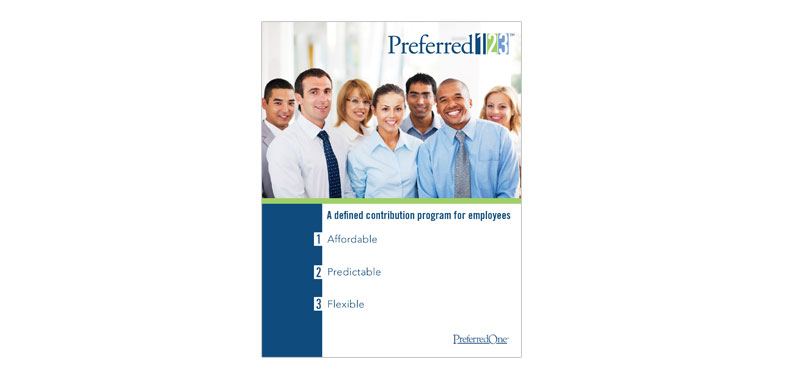
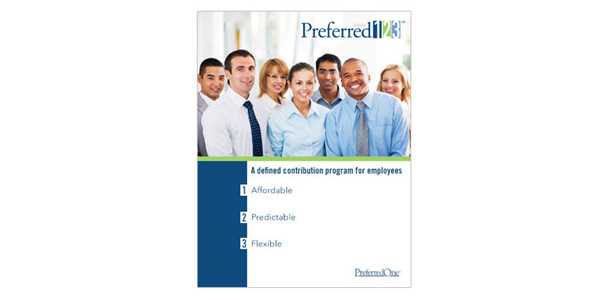
New Layout Applied

Changed region(s): [[0.3, 0.03, 0.69, 0.96]]

diff --git a/design/Fox-Interiors/index.html b/design/Fox-Interiors/index.html
@@ -39,23 +39,31 @@
         <div class="main-container">
             <div class="main wrapper clearfix">
                
-                <section>
-                    
-                    <div id="slide">
-					<img src="../../img/fox1.jpg" id="imgslide" >
-					<div id="left_holder">
-					<img onClick="fox(-1)" class="left" src="../../img/ArrowsLeft.png">
-					</div>
-					<div id="right_holder">
-					<img onClick="fox(1)" class="right" src="../../img/ArrowsRight.png">
-					</div>
-					</div>
-					
-				</section>
-				
+               <article>
+                    <h1>Design</h1>
+                    	<ul class="subnav">
+                    		<li><a href="../DDW">DDW</a></li>
+                    		<li><a href="../Fox-Interiors">Fox-Interiors</a></li>
+                    		<li><a href="../Preferred123">Preferred123</a></li>
+                    		<li><a href="../PreferredOne-Branding">PreferredOne Branding</a></li>
+                    		<li><a href="../Social-Media">Social Media</a></li>
+                    		<li><a href="../Vinyl-Record">Vinyl LP Design</a></li>
+                    	</ul>
+                </article>
+
 				<section>
                     <h1>Fox Interiors</h1>
                     <p>Metro based interior design company’s identity system created in 2009 for their company launch. Classic font logotype paired with a modern chair vector image reflects the company style as well as creates a theme to carry throughout company marketing pieces. This project was created while freelancing at Inizio Creative. Other designed items include a logotype, vector art chair, business card and a promotional postcard.</p>
+                <img src="../../img/fox1.jpg" alt="Fox Interiors Logo">
+                <h3>PHASE ONE | Logos and Patterns</h3>
+                <img src="../../img/fox2.jpg" alt="Fox Logo Comps 1">
+                <h3>PHASE TWO | Vector Chairs</h3>
+                <img src="../../img/fox3.jpg" alt="Fox Vector Chairs">
+                <h3>PHASE THREE | Combining Logos and Chairs</h3>
+                <img src="../../img/fox4.jpg" alt="Logos and Vector Chairs">
+                <h3>FINAL IDENTITY</h3>
+                <img src="../../img/fox5.jpg" alt="Final Identity">
+                
                 </section>
 
             </div> <!-- #main -->

diff --git a/design/DDW/index.html b/design/DDW/index.html
@@ -39,23 +39,31 @@
 
         <div class="main-container">
             <div class="main wrapper clearfix">
-
-                    <section>
-                    
-                    <div id="slide">
-					<img src="../../img/ddw1.jpg" id="imgslide" >
-					<div id="left_holder">
-					<img onClick="ddw(-1)" class="left" src="../../img/ArrowsLeft.png">
-					</div>
-					<div id="right_holder">
-					<img onClick="ddw(1)" class="right" src="../../img/ArrowsRight.png">
-					</div>
-					</div>
-					
+				
+				<article>
+                    <h1>Design</h1>
+                    	<ul class="subnav">
+                    		<li><a href="../DDW">DDW</a></li>
+                    		<li><a href="../Fox-Interiors">Fox-Interiors</a></li>
+                    		<li><a href="../Preferred123">Preferred123</a></li>
+                    		<li><a href="../PreferredOne-Branding">PreferredOne Branding</a></li>
+                    		<li><a href="../Social-Media">Social Media</a></li>
+                    		<li><a href="../Vinyl-Record">Vinyl LP Design</a></li>
+                    	</ul>
+                </article>
+                
+                <section>
                     <h1>DDW on Demand</h1>
                     <p>Digestive Disease Week On Demand Logo
 Digestive Disease week is a medical conference put on by four major medical societies. Branding was created for the conferences ‘On Demand’ sessions capture product. The logo uses Humanist as the main font to adhere to the clients brand guidelines. The ‘4D’ symbol represents the four medical societies that partake in digestive disease week.</p>
-                    </section>
+                <img src="../../img/ddw1.jpg" alt="DDW Logo">
+                <h3>PHASE ONE | Logo Comps</h3>
+                <img src="../../img/ddw2.jpg" alt="DDW Logo Comps 1">
+                <h3>PHASE TWO | Revised Logo Comps</h3>
+                <img src="../../img/ddw3.jpg" alt="DDW Logo Comps 2">
+                <h3>PHASE THREE | Final Logo Comps</h3>
+                <img src="../../img/ddw4.jpg" alt="Final DDW Logo Comps">
+                </section>
 
 
             </div> <!-- #main -->

diff --git a/design/Preferred123/index.html b/design/Preferred123/index.html
@@ -39,21 +39,25 @@
 
         <div class="main-container">
             <div class="main wrapper clearfix">
-
+				
+				<article>
+                    <h1>Design</h1>
+                    	<ul class="subnav">
+                    		<li><a href="../DDW">DDW</a></li>
+                    		<li><a href="../Fox-Interiors">Fox-Interiors</a></li>
+                    		<li><a href="../Preferred123">Preferred123</a></li>
+                    		<li><a href="../PreferredOne-Branding">PreferredOne Branding</a></li>
+                    		<li><a href="../Social-Media">Social Media</a></li>
+                    		<li><a href="../Vinyl-Record">Vinyl LP Design</a></li>
+                    	</ul>
+                </article
+                    
                     <section>
-                    
-                    <div id="slide">
-					<img src="../../img/define1.jpg" id="imgslide" >
-					<div id="left_holder">
-					<img onClick="define(-1)" class="left" src="../../img/ArrowsLeft.png">
-					</div>
-					<div id="right_holder">
-					<img onClick="define(1)" class="right" src="../../img/ArrowsRight.png">
-					</div>
-					</div>
-                    
                     <h1>Preferred123</h1>
                     <p>Preferred123 is a defined contribution health insurance product for PreferredOne Insurance Company. Starting with its inception in 2012, branding and product identity were created. The branding was applied to both print and online marketing pieces for the 2013 product rollout. These items included a logotype, flyers, brochure and website design.</p>
+                    <img src="../../img/define1.jpg" alt="Preferred123 Logo">
+                    <img src="../../img/define2.jpg" alt="Preferred123 Brochure">
+                    <img src="../../img/define3.jpg" alt="Preferred123 Website">
                     </section>
 
 

diff --git a/design/Social-Media/index.html b/design/Social-Media/index.html
@@ -39,21 +39,25 @@
 
         <div class="main-container">
             <div class="main wrapper clearfix">
+				
+				<article>
+                    <h1>Design</h1>
+                    	<ul class="subnav">
+                    		<li><a href="../DDW">DDW</a></li>
+                    		<li><a href="../Fox-Interiors">Fox-Interiors</a></li>
+                    		<li><a href="../Preferred123">Preferred123</a></li>
+                    		<li><a href="../PreferredOne-Branding">PreferredOne Branding</a></li>
+                    		<li><a href="../Social-Media">Social Media</a></li>
+                    		<li><a href="../Vinyl-Record">Vinyl LP Design</a></li>
+                    	</ul>
+                </article
 
                     <section>
-                    
-                    <div id="slide">
-					<img src="../../img/social1.jpg" id="imgslide" >
-					<div id="left_holder">
-					<img onClick="social(-1)" class="left" src="../../img/ArrowsLeft.png">
-					</div>
-					<div id="right_holder">
-					<img onClick="social(1)" class="right" src="../../img/ArrowsRight.png">
-					</div>
-					</div>
-                    
                     <h1>Social Media</h1>
                     <p>Branding for PreferredOne Insurance Company was applied to their social media sites including Facebook, LinkedIn, Google+, You Tube and Twitter. Managed appearance and content posted to these social media outlets.</p>
+                    <img src="../../img/social1.jpg" alt="Facebook Example">
+                    <img src="../../img/social2.jpg" alt="You Tube Example">
+                    <img src="../../img/social3.jpg" alt="LinkedIn Example"> 
                     </section>
 
 

diff --git a/design/Vinyl-Record/index.html b/design/Vinyl-Record/index.html
@@ -39,20 +39,25 @@
 
         <div class="main-container">
             <div class="main wrapper clearfix">
-                    <section>
                     
-                    <div id="slide">
-					<img src="../../img/vinyl1.jpg" id="imgslide" >
-					<div id="left_holder">
-					<img onClick="vinyl(-1)" class="left" src="../../img/ArrowsLeft.png">
-					</div>
-					<div id="right_holder">
-					<img onClick="vinyl(1)" class="right" src="../../img/ArrowsRight.png">
-					</div>
-					</div>                   									
-					
+                <article>
+                    <h1>Design</h1>
+                    	<ul class="subnav">
+                    		<li><a href="../DDW">DDW</a></li>
+                    		<li><a href="../Fox-Interiors">Fox-Interiors</a></li>
+                    		<li><a href="../Preferred123">Preferred123</a></li>
+                    		<li><a href="../PreferredOne-Branding">PreferredOne Branding</a></li>
+                    		<li><a href="../Social-Media">Social Media</a></li>
+                    		<li><a href="../Vinyl-Record">Vinyl LP Design</a></li>
+                    	</ul>
+                </article
+    
+                    <section>
 					<h1>Vinyl Record Design</h1>
                     <p>12" Vinyl double LP design with a modified gatefold and custom die cut. Abstract photography was taken for the designs imagery.  </p>
+                    <img src="../../img/vinyl1.jpg" alt="Vinyl LP Front">
+                    <img src="../../img/vinyl2.jpg" alt="Vinyl LP Front 2">
+                    <img src="../../img/vinyl3.jpg" alt="Vinyl Sleeve">
                     </section>
 
 
